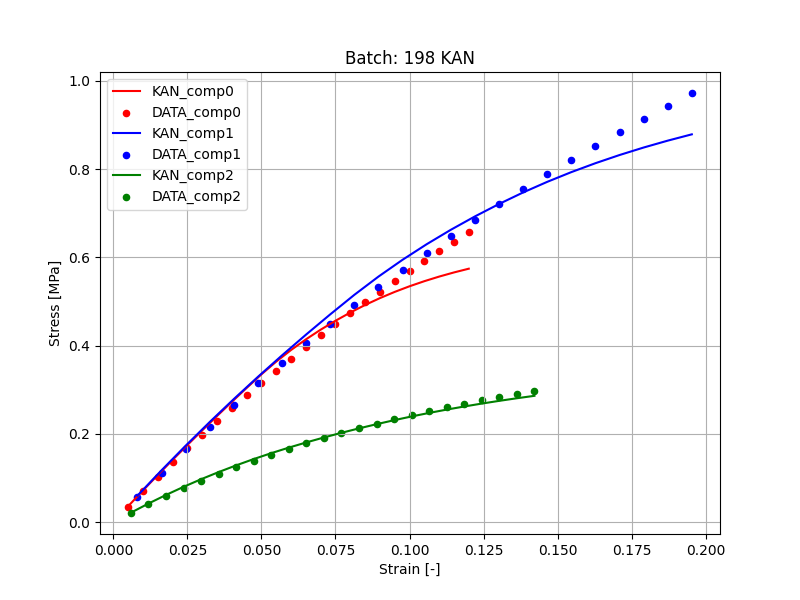
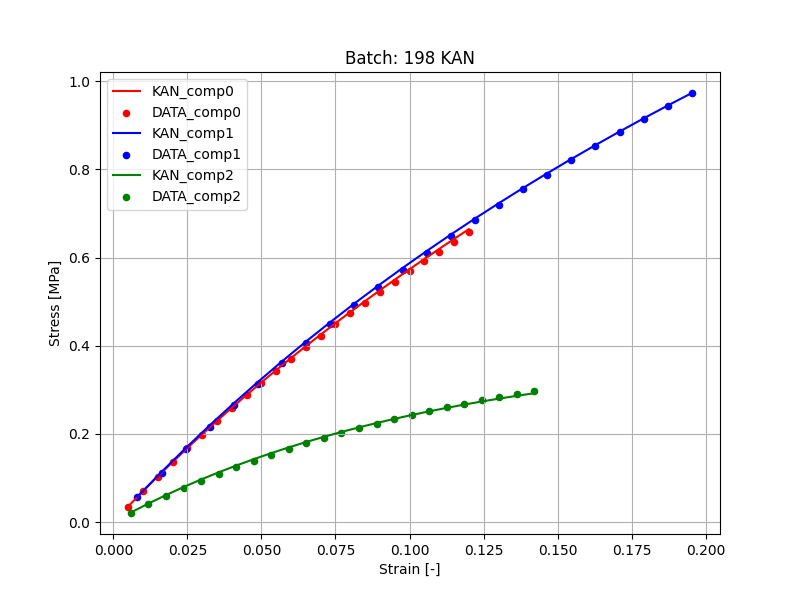
nice

diff --git a/data_sets/KAN_ann.py b/data_sets/KAN_ann.py
@@ -7,6 +7,7 @@ import torch.nn as nn
 import torch.optim as optim
 import os
 import kan as KAN
+import random
 
 
 # custom imports
@@ -24,7 +25,7 @@ from sklearn.model_selection import train_test_split
 """
 INPUT DATASET:
 """
-n_epochs = 250
+n_epochs = 500
 learning_rate = 0.025
 number_of_steps = 25
 ADD_NOISE = False
@@ -82,14 +83,15 @@ class KANStressPredictor(nn.Module):
 
         # KAN framework layers
         self.KAN_W = KAN.MultKAN(
-            width=[self.input_size, self.order_stretches, 1],
+            width=[self.input_size, 1, 1],
             grid=self.grid,
             k=self.k
         )
 
         self.ki = nn.ParameterList([ # order of the log, 2 params per mode: one per lambdas and another for J
-            nn.Parameter(torch.tensor(float(p))) for p in range(2 * self.order_stretches)
+            nn.Parameter(torch.tensor(random.random())) for p in range(2 * self.order_stretches)
         ])
+        # self.ki = [1.0, 2.0, 2.0, 0.0]
 
 
     def CalculateW(self, strain):
@@ -240,7 +242,9 @@ for epoch in range(n_epochs):
 # Let's print the results of the ANN for training and testing datasets
 
 print("\nTraining finished.\n")
+
 # print("\nmodel parameters:")
+# print("\n \tKi: ", model.ki.data)
 # for name, param in model.named_parameters():
 #     print(name, param.data)
 
